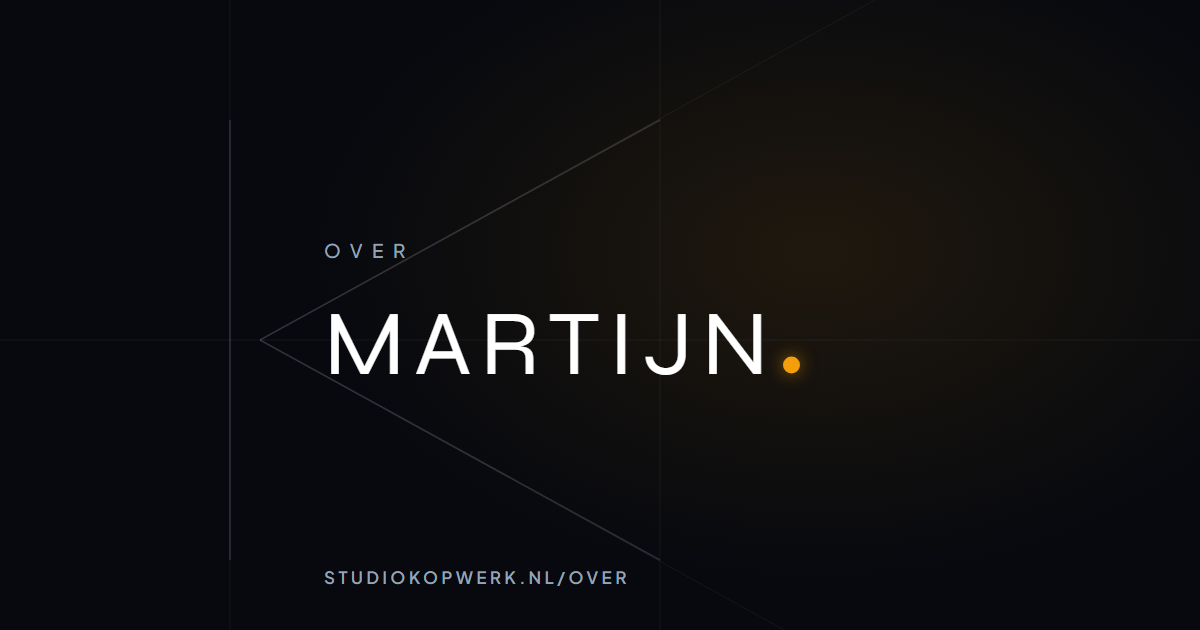
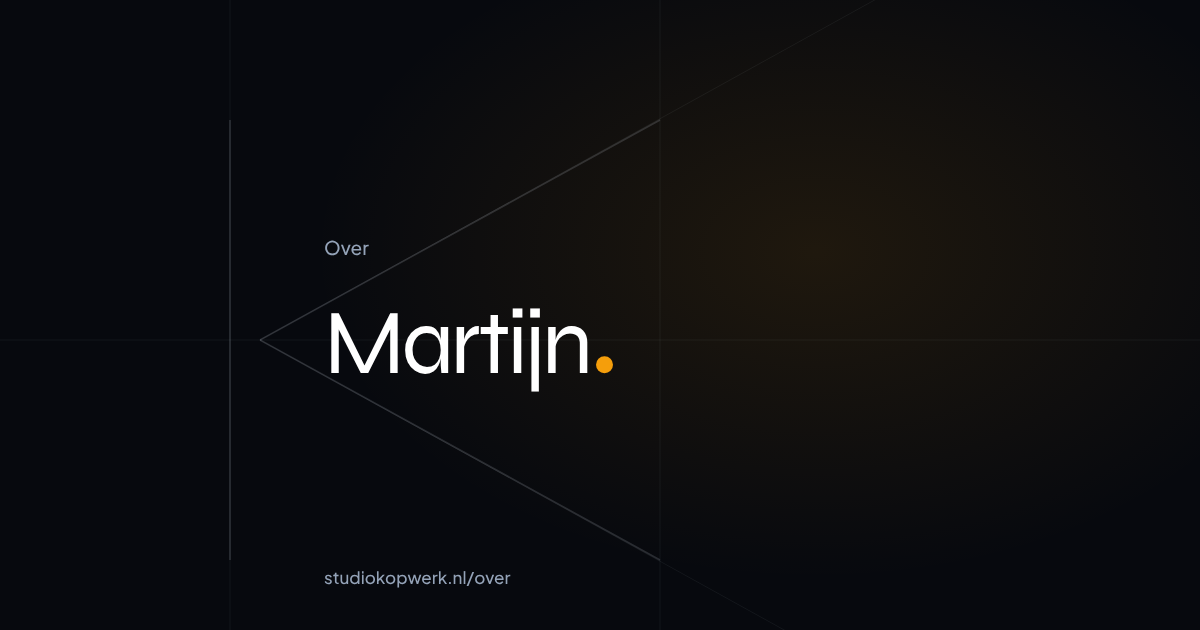
Merkregels en deelafbeeldingen volgen het ontwerp zonder AI-look
BRAND_GUIDE.md en AGENTS.md schrijven nu zinsvorm, gewichten 400-600, een
vlakke stip zonder gloed, hoeken naar grootte en lichte schaduwen voor, zodat
een volgende ronde het ontwerp niet terugzet. De deelafbeeldingen zijn
opnieuw gemaakt met de titels in zinsvorm.

Claude-Session: https://claude.ai/code/session_01SC8LXLy7bXpZ7j1iLZabHK

Changed region(s): [[0.3083, 0.4825, 0.6783, 0.6333], [0.2467, 0.9048, 0.5242, 0.9349], [0.2775, 0.3619, 0.3392, 0.4222]]

diff --git a/BRAND_GUIDE.md b/BRAND_GUIDE.md
@@ -10,6 +10,22 @@ Voor deze reviewbare website-uitwerking wijkt de contactkaart bewust af van de o
 
 Deze keuzes zijn met Martijn in de chat bevestigd. De externe design-systembron kon in deze sessie niet worden gelezen of aangepast. De wijzigingen die daar nog vastgelegd moeten worden staan in `docs/ux-review/2026-11-02-uitwerking.md`; dit is geen claim dat de externe bron al is bijgewerkt.
 
+## Ontwerp zonder AI-look, 7 november 2026
+
+Op 7 november heeft Martijn een ontwerpronde naar de regels van heydamir/unslop goedgekeurd (PR #67). Waar een regel hieronder nog anders zegt, geldt dit:
+
+- **Zinsvorm, geen wijde spatiëring.** Labels, knoppen, menu, eyebrows en paginatitels staan in gewone zinsvorm. Geen `uppercase`, en geen `tracking-wide-md` tot `tracking-ultra-wide` op tekst. Grote titels krijgen `tracking-display`, kleine tekst geen extra spatiëring.
+- **Gewichten 400 tot 600.** Geen `font-bold` (700) of zwaarder en geen `font-light`. Hiërarchie komt uit grootte en kleur.
+- **Geen cursief voor nadruk.** Ook niet op *wérkt*: het accent doet de nadruk al.
+- **De amber stip is vlak.** Geen gloed (`shadow-[0_0_…amber…]`, `drop-shadow`) en geen eindeloze pulsring: de ring gaat één keer bij het laden.
+- **Het amber licht staat stil.** Het volgt het daglicht (`daglicht.ts`) maar niet de muis, en drijft niet op telefoons.
+- **Knoppen hebben hoeken.** De capsule is `rounded-xl` met een `rounded-lg` pijlvak, kleine knoppen `rounded-lg`. Niet alles is een pil. Geen magnetisch effect en geen `hover:scale`: hover is een kleur- of vlakwissel, klikken een kleine indruk (`active:scale-[0.98]`).
+- **Lichte schaduwen.** Op licht klein en zacht, op donker geen schaduw maar een dun lijntje.
+- **Tekst minimaal 12 px**, ook in schetsen en voorbeelden.
+- **Begin opent links**, met de film van de opdracht ernaast. Korte regels (labels, onderschriften, de rondgang) eindigen zonder punt.
+
+Het design system zelf is nog niet bijgewerkt; tot dat gebeurt, wint deze sectie voor de website.
+
 > **Design system first.** The definitive source for the Studio Kopwerk brand is the design system: https://claude.ai/artifact/8m9zeziNGjkdFoJCX2w3Vi. This file is the website's translation of it into this codebase, plus what only the website has (de tekentafel, §5F). Where this file disagrees with the design system, the design system wins and this file should be corrected.
 
 ---
@@ -66,15 +82,15 @@ When generating HTML, React, PDF, or SVG documents, embed this exact SVG:
 ```
 
 ### On the Website
-The K mark sits top-left in the header on every screen size (`<KopwerkLogo>`), with a slow pulse around its amber dot (off for reduced motion).
+The K mark sits top-left in the header on every screen size (`<KopwerkLogo>`), with one pulse around its amber dot on load (off for reduced motion), then still.
 
-**Background, "de tekentafel":** on load, faint hairlines draw the construction geometry of the K across the page (its stem, vertex and arm angles), the K itself appears slightly stronger, and the amber dot lands on the vertex and keeps pulsing. After that intro the drawing is still. A soft amber ambient glow follows the cursor with a long lag (it drifts slowly on touch screens). Reduced motion shows the finished drawing and a still glow. On phones (under 640px) the K is drawn cropped: its stem continues the header logo's stem, the arms run off the right edge and the content stands left-aligned beside the stem. The full rules are in §5F.
+**Background, "de tekentafel":** on load, faint hairlines draw the construction geometry of the K across the page (its stem, vertex and arm angles), the K itself appears slightly stronger, and the amber dot lands on the vertex with one pulse. After that intro the drawing is still. A soft amber light rests where the sun would be at that hour (`daglicht.ts`); it does not follow the pointer. Reduced motion shows the finished drawing. On phones (under 640px) the K is drawn cropped: its stem continues the header logo's stem, the arms run off the right edge and the content stands left-aligned beside the stem. The full rules are in §5F.
 
 **Theme toggle:** one round button showing the theme you switch *to* (moon in light, sun in dark). Dark first, and the person decides (design system, Themes): a choice made with the toggle wins; otherwise a system setting for light wins; otherwise the site is dark. Toggling back to the system's own theme forgets the manual choice.
 
 ### The Signature "Amber Dot" Element
-A standalone amber glowing indicator represents the pulse of Kopwerk. Used in headers, live status indicators, timeline nodes, and key action items:
-* **HTML/Tailwind:** `<span class="inline-block w-2.5 h-2.5 rounded-full bg-amber-500 shadow-[0_0_12px_rgba(245,158,11,0.6)]"></span>`
+A standalone flat amber dot represents the pulse of Kopwerk, without a glow. Used in headers, live status indicators, timeline nodes, and key action items:
+* **HTML/Tailwind:** `<span class="inline-block w-2.5 h-2.5 rounded-full bg-amber-500"></span>`
 
 ---
 
@@ -96,7 +112,7 @@ A standalone amber glowing indicator represents the pulse of Kopwerk. Used in he
 
 * **Selection Color:** `rgba(217, 119, 6, 0.25)` with inherited text color.
 * **Contrast:** all text meets WCAG AA (4.5:1). On light backgrounds that means `text-subtle` (`#56657a`) or darker for small labels and `amber-700` for amber text. On `#07090e`, use `slate-400` or lighter and `amber-400`.
-* **Ambient Glows:** Radial gradients with `rgba(245, 158, 11, 0.05)` to `rgba(245, 158, 11, 0)` for background atmosphere.
+* **Ambient light:** only the one still daylight behind the drawing table. No other radial washes or blobs behind content.
 
 ---
 
@@ -115,7 +131,7 @@ The website self-hosts both fonts (`@fontsource-variable/syne`, `@fontsource-var
 2. **Body & UI / Numerals:** `Plus Jakarta Sans` (`sans-serif`, legible, modern, geometric).
 
 ### Strict Letter-Spacing (Tracking) Rules
-Studio Kopwerk relies on exaggerated, deliberate letter-spacing for premium micro-typography:
+Since 7 November 2026 the wide tokens are no longer used on text (see the section at the top). Large titles use `tracking-display`, H2 `tracking-heading`; small text has no extra tracking. The wide tokens below remain only for older documents:
 
 | Level | Tailwind token (website) | Value | Usage |
 | :--- | :--- | :--- | :--- |
@@ -131,18 +147,17 @@ In the website codebase, always use the token names (defined in `src/index.css`)
 ### Hierarchy Scale
 
 * **Eyebrow (`span`):**  
-  `font-sans text-xs sm:text-sm font-medium tracking-[0.4em] uppercase text-[#56657a] dark:text-slate-400`
+  `font-sans text-sm font-medium text-[#56657a] dark:text-slate-400`
 * **H1 / Document Title (`h1`):**  
-  `font-display font-normal text-4xl sm:text-6xl md:text-7xl tracking-[0.1em] uppercase leading-none text-slate-900 dark:text-white`
+  `font-display font-normal text-4xl sm:text-6xl md:text-7xl tracking-[-0.035em] leading-[1.05] text-slate-900 dark:text-white`
 * **H2 / Section Title (`h2`):**  
   `font-display font-medium text-2xl sm:text-4xl tracking-[-0.025em] text-slate-900 dark:text-white`
 * **Lead / Tagline (`p`):**  
-  `font-sans text-xl sm:text-2xl font-light tracking-[0.04em] text-slate-600 dark:text-slate-300`  
-  *(Key words in lead text are often italicized, e.g. `Zien wat <em class="italic font-normal">wérkt</em>.`)*
+  `font-sans text-xl sm:text-2xl font-normal text-slate-600 dark:text-slate-300`
 * **Body Text (`p`):**  
   `font-sans text-base font-normal leading-relaxed text-slate-700 dark:text-slate-300`
 * **Metadata / Footnote (`small`):**  
-  `font-sans text-xs font-semibold tracking-[0.2em] uppercase text-[#56657a] dark:text-slate-400`
+  `font-sans text-sm font-medium text-[#56657a] dark:text-slate-400`
 * **Sublead (`p`), the second step under a hero lead:**  
   `font-sans text-base sm:text-lg leading-relaxed tracking-[0.02em] text-[#56657a] dark:text-slate-400`
 * **Display (`p` or `h2`), one statement per page:**  
@@ -153,9 +168,9 @@ In the website codebase, always use the token names (defined in `src/index.css`)
 * **Easing:** `cubic-bezier(0.19, 1, 0.22, 1)` (Tailwind token `ease-kopwerk`), typically 500ms. Avoid `ease-in-out` and `easeOut`. Durations: 300ms for colour and hover, 500ms for movement and page changes, 900ms for entrances.
 * **Entrances:** the rise (`motion-safe:animate-rise`). Blocks below the first screen rise 12px into place as they scroll into view (`.kopwerk-reveal`, a CSS scroll timeline, no script); where that isn't supported they simply stand there.
 * **Page changes:** View Transitions (`src/lib/view-transition.ts`): the page's `h1` glides to where the next page's `h1` stands, the old page fades, the new one rises in. The header and the drawing stay put.
-* **Not:** bouncing or overshoot, parallax, anything that loops by itself except the dot's pulse and the werkwijze loop.
+* **Not:** bouncing or overshoot, parallax, magnetic pull, hover zoom, anything that loops by itself except the werkwijze loop.
 * **Rolling text:** on hover *and* keyboard focus the label rolls up and an amber copy rolls in (overflow hidden). The duplicate is `aria-hidden`. In code: `<RollingText>`.
-* **Reduced motion:** every animation (canvas, pulse, entrance, magnetic pull) stops or becomes a still state under `prefers-reduced-motion: reduce`.
+* **Reduced motion:** every animation (canvas, pulse, entrance) stops or becomes a still state under `prefers-reduced-motion: reduce`.
 
 ---
 
@@ -221,11 +236,11 @@ When generating **Offertes (Proposals)**, **Project Roadmaps**, or **Executive S
 In the website codebase this is the `<CapsuleButton>` component. Don't rebuild it inline.
 
 ```html
-<a href="mailto:hallo@studiokopwerk.nl" class="group inline-flex items-center gap-6 rounded-full bg-slate-900 dark:bg-white pl-8 pr-2 py-2 text-white dark:text-slate-950 shadow-xl transition-all duration-300 hover:scale-[1.02]">
-  <span class="text-sm font-medium tracking-[0.1em] uppercase">
+<a href="mailto:hallo@studiokopwerk.nl" class="group inline-flex items-center gap-6 rounded-xl bg-slate-900 dark:bg-white pl-6 pr-2 py-2 text-white dark:text-slate-950 shadow-sm transition-transform duration-150 active:scale-[0.98]">
+  <span class="text-base font-medium">
     Vertel waar het knelt
   </span>
-  <span class="flex h-10 w-10 items-center justify-center rounded-full bg-white/20 dark:bg-black/10 transition-colors duration-300 group-hover:bg-amber-500">
+  <span class="flex h-10 w-10 items-center justify-center rounded-lg bg-white/20 dark:bg-black/10 transition-colors duration-300 group-hover:bg-amber-500">
     &nearr;
   </span>
 </a>
@@ -243,14 +258,14 @@ The signature backdrop: the construction drawing of the K, as if the page were s
   | Dark | `rgb(226 232 240)` (slate-200) | 0.055 | 0.13 | 0.075 | 0.17 |
 
 * **Light gets a step more than dark,** so the table doesn't vanish on slate-50: light and dark are equal in quality.
-* **Layers, back to front:** the ambient amber glow, the drawing, the content, then the amber dot on the vertex (the only amber in the drawing).
+* **Layers, back to front:** the still amber daylight, the drawing, the content, then the amber dot on the vertex (the only amber in the drawing).
 * **Wide screens (640px and up):** the K is about as tall as the screen, its stem at 10% of the width, left of centre, so it never competes with the wordmark.
 * **Phones (under 640px):** the K is drawn cropped. Its stem continues the header logo's stem as one line, the arms run off the right edge, and the content stands left-aligned just right of the stem. A page gives the vertex a place with an empty, `aria-hidden` element marked `data-tekentafel-vertex` in a gap between blocks (on the home page: between the mission line and the button); without one the vertex sits at 60% of the height. Pages that move the dot (`/werk`) put their markers on the stem line.
 * **The dot never sits on text:** only in a margin, on the stem, or in a gap left for it.
 * **The dot never crosses text either:** a page's dot positions all lie on one reading line (the left margin on wide screens, the stem on phones). Along that line the dot glides; to anywhere else (to or from the vertex) it fades out and reappears. While the footer is in view the dot rests in the margin beside it.
 * **The dot hands itself over:** while a component with its own dot is the block being read (the loop on Begin and Aanpak), the reading dot fades out (`useAmberDot(…, hide)`). One dot walking, amber at one or two points.
 * **The page's one moment:** a page may give the dot one moment that carries meaning (`useAmberDot(…, glide)`). On Begin it is the full stop of the promise: after landing on the vertex it flies slowly (1.4s) to the end of *Zien wat wérkt* and stays there; scrolling back up to the promise flies it back. On phones the way up crosses text, so there it fades and reappears instead. The `h1` keeps a real full stop for screen readers (`sr-only`), and before the script runs the full stop is drawn in amber.
-* **Motion:** on load the lines draw themselves once (about 2.6s, brand curve), the K follows, the dot lands and keeps pulsing. Then the drawing is still. The glow follows a mouse or pen with a long lag and drifts slowly on touch screens. Reduced motion: the finished drawing, a still dot and a still glow.
+* **Motion:** on load the lines draw themselves once (about 2.6s, brand curve), the K follows, the dot lands with one pulse. Then the drawing is still. The light stays where the sun would be. Reduced motion: the finished drawing and a still dot.
 * **Elsewhere (slides, covers, social images):** use the same drawing static, with the same opacities and the dot on the vertex. Not behind running text in documents or offertes.
 
 ### G. Een film bij een opdracht (`/werk`)
@@ -272,7 +287,7 @@ The card on `/werk` stays small. An opdracht with an image may add a short film 
 * **One slot per page (design system: `Slot`):** every page ends in the footer with its own last line (the route's `slot.line`, else "Klein beginnen, snel iets maken dat werkt."), the capsule and, smaller, "Of mail zelf" with the address and "Kopieer". At most one quiet way on (`slot.next`). Pages have no closing section of their own. Below, quiet: the pages, the company details and Privacy. The dot rests beside the last line.
 * **The contact card (`ContactCard`):** the capsule opens the first conversation: the five frictions plus "Iets anders" as choices, "Vertel het in een mail" with the choice as the subject (`mailtoHref(knelt)`, "Waar het knelt: …"), and at the bottom the address with copy. Focus starts on the first choice.
 * **Icons:** `<Icon name="…">` (`src/components/ui/Icon.tsx`) draws the design system's Kopwerk line icons. No third-party icon set.
-* **Corners:** `rounded-2xl` and `rounded-full` only, also for focus areas of links (`rounded-full`).
+* **Corners:** by size. Cards and panels `rounded-2xl`, buttons `rounded-xl` or `rounded-lg`, small inner parts `rounded-md`; `rounded-full` only for dots, rings and the focus areas of text links.
 
 ### I. Kies waar het knelt (Begin)
 The frictions from the positionering, word for word, as buttons (`<KnelpuntKiezer>`): a hollow ring that fills amber when chosen, the answer below it (↳, Syne) and the capsule "Vertel het in een mail", which opens the mail with the friction in the subject ("Waar het knelt: …"). One open at a time. Before the script runs it is the plain list of pairs (`<Knelpunten>`).
@@ -304,8 +319,8 @@ When prompting an external LLM/Agent to generate an artifact for Studio Kopwerk,
 Generate this document strictly following the Studio Kopwerk Design System:
 - Palette: Dark mode #07090e (never #000000), Light mode #f8fafc (slate-50), Accent Amber #f59e0b.
 - Typography: Display font 'Syne' (geometric/bold) and Body font 'Plus Jakarta Sans'.
-- Letter-spacing: Ultra-wide (0.4em-0.5em) for uppercase eyebrows/labels; wide (0.1em) for headings.
-- Aesthetic: Minimalist, architectural, generous whitespace, frosted glass cards (backdrop-blur), glowing amber dots for status.
+- Type: sentence case everywhere, no uppercase labels, no wide letter-spacing, weights 400-600, no italic.
+- Aesthetic: Minimalist, architectural, generous whitespace, quiet surfaces with hairlines, one flat amber dot, no glows or pills.
 - Tone: Confident, action-oriented ("Zien wat wérkt", "Vertel waar het knelt"), zero corporate filler.
 - Logo URL: https://www.studiokopwerk.nl/favicon.svg
 - Contact: hallo@studiokopwerk.nl

diff --git a/AGENTS.md b/AGENTS.md
@@ -34,7 +34,7 @@ All tokens live in `src/index.css` (`@theme`). Use tokens, never Tailwind's gene
 - **Dark Mode Core:** `--color-kopwerk-dark` (`#07090e`) - Use via `bg-kopwerk-dark`. Never use pure black (`#000000`), including for overlays and shadows (use `kopwerk-dark/…`).
 - **Light Mode Core:** `slate-50` (`#f8fafc`).
 - **Text & Borders:** Use Tailwind's `slate` scale (`slate-900` for light mode text, `slate-400`/`500` for secondary text/eyebrows).
-- **Accents:** Tailwind's `amber` scale. `amber-500` (`#f59e0b`) for primary interaction, dots and fills. `amber-400` or `amber-600` for depth and glows. Success states use amber too; no green/emerald.
+- **Accents:** Tailwind's `amber` scale. `amber-500` (`#f59e0b`) for primary interaction, dots and fills. `amber-400` or `amber-600` for depth. No glows: the amber dot is flat, without coloured shadows, and nothing pulses on a loop (the logo and the drawing's dot pulse once on load). Success states use amber too; no green/emerald.
 - **Contrast (WCAG AA, 4.5:1 for text):** amber *text* on light backgrounds is `amber-700` (never `amber-500`/`600`); on dark it is `amber-400`. Small grey labels: `text-subtle dark:text-slate-400` (the design system's `ink-subtle`, `#56657a` on light; never `slate-400` on white or `slate-500` on `kopwerk-dark`).
 
 ### Typography
@@ -42,25 +42,23 @@ All tokens live in `src/index.css` (`@theme`). Use tokens, never Tailwind's gene
 - **Body & UI (Sans):** `Plus Jakarta Sans` via `font-sans` (Clean, highly legible).
 - Both are self-hosted through `@fontsource-variable/*` (imported in `src/main.tsx`). Don't add Google Fonts links; the CSP blocks them.
 - **Tracking (Letter-spacing):** Use the custom tokens instead of hardcoded values or `tracking-tight`/`tracking-wide`:
-  - `tracking-wide-sm` (0.04em) - For lead/body text and mixed-case button labels.
-  - `tracking-wide-md` (0.1em) - For H1 titles and 14px capsule CTA labels.
-  - `tracking-wide-lg` (0.15em) - For large open titles.
-  - `tracking-wide-xl` (0.2em) - For uppercase buttons/labels.
-  - `tracking-super-wide` (0.4em) - For eyebrow text.
-  - `tracking-ultra-wide` (0.5em) - For extreme micro-typography.
-  - `tracking-heading` (-0.025em) - For H2 section titles (sentence case, set tight).
-  - `tracking-display` (-0.035em) - For the one `display` statement per page.
+  - `tracking-display` (-0.035em) - For H1 page titles and the one `display` statement per page.
+  - `tracking-heading` (-0.025em) - For H2 section titles and large figures.
+  - Small text (labels, buttons, menu, eyebrows, body) gets no extra tracking. `tracking-wide-sm` at most on running text.
+  - Since 7 November 2026 (PR #67, unslop): no `uppercase` and no `tracking-wide-md` to `tracking-ultra-wide` on text. Sentence case everywhere, page titles included.
+- **Weights and style:** 400 to 600 only (no `font-bold`, no `font-light`), and no italic for emphasis. Hierarchy comes from size and colour. Text is at least 12px, also inside sketches and previews.
 - **Display and sublead:** `<Typography variant="display">` sets the one sentence a page is about large (`text-display`, fluid): a line from the positionering or the core sentence Martijn wrote for that page. At most once per page and never as a title. `variant="sublead"` is the second step under a hero lead. The project's tokens are registered in `cn()` (`src/lib/utils.ts`) so tailwind-merge doesn't mistake `text-display` for a colour; add new tokens there too.
 
 ## 4. Components & Interactions
 - **Logo:** `<KopwerkLogo>` (`src/components/ui/KopwerkLogo.tsx`), the K with its amber dot, in the header on every screen size.
 - **Buttons:** Avoid generic symmetric pills. Primary CTAs use `<CapsuleButton>` (`src/components/ui/CapsuleButton.tsx`): the bespoke asymmetric capsule with a distinct icon well and contrast inversion on hover. `<Button>` is only for quiet utility controls (ghost icon buttons).
 - **Micro-interactions:** Rolling-text on hover/focus via `<RollingText>` (`src/components/ui/RollingText.tsx`), or `<RollingLetters>` for one large line. Don't hand-roll the two-span pattern.
-- **The call to action:** `<ContactButton>` (magnetic capsule, `aria-haspopup="dialog"`, opens the contact card). Don't rebuild it per page.
+- **The call to action:** `<ContactButton>` (the capsule, `aria-haspopup="dialog"`, opens the contact card; no magnetic pull, no hover zoom). Don't rebuild it per page.
 - **How a page ends:** the footer carries the page's `Slot`: the route's `slot.line` and `slot.next` (`src/routes.tsx`), the capsule and "Of mail zelf" with the address. Pages don't add a closing section of their own.
 - **The contact card** (`src/components/ContactCard.tsx`) starts with the mail action and copyable address. The frictions plus "Iets anders" are optional help in a closed disclosure. Focus starts on the mail action; choosing a friction returns there. Mail links go through `mailtoHref(knelt?)` (`src/lib/contact.ts`) so the subject is always "Waar het knelt" or "Waar het knelt: …".
 - **Icons:** `<Icon name="…">` (`src/components/ui/Icon.tsx`), the design system's Kopwerk line icons. No `lucide-react` or other icon sets.
-- **Radius:** only `rounded-2xl` and `rounded-full`.
+- **Radius:** by size. Cards and panels `rounded-2xl`, buttons `rounded-xl` (the capsule) or `rounded-lg`, small inner parts `rounded-md`; `rounded-full` only for dots, rings and the focus areas of text links. Not everything is a pill.
+- **Shadows:** light theme small and soft (`shadow-sm`, floating bars `0 8px 24px` at 6%); dark theme none, depth from hairlines.
 - **Focus:** one rule for the whole site in `src/index.css`: a 2px solid outline, 2px offset, `amber-600` on light and `amber-400` on dark (the design system's `focus`). Don't add focus rings or `outline-none` to interactive elements; only headings that receive focus after navigation opt out.
 - **Easing:** Use the `ease-kopwerk` token (`cubic-bezier(0.19,1,0.22,1)`), usually with `duration-500`. In Motion, use `[0.19, 1, 0.22, 1]`. Never `ease-in-out` or `easeOut`.
 - **Entrance animations:** CSS via `motion-safe:animate-rise` (tune with `[--rise-from:…]` and `[animation-delay:…]`). Blocks below the first screen get `kopwerk-reveal` (a CSS scroll timeline, no script). No bouncing, no parallax.
